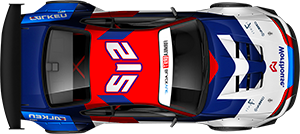
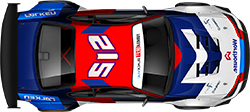
Fix image slide responsiveness

diff --git a/client/src/components/ShopSlider/ShopSlider.scss b/client/src/components/ShopSlider/ShopSlider.scss
@@ -8,7 +8,6 @@
   width: 40%;
   font-weight: 600;
   font-size: 2rem;
-  // right: 50%;
   margin: 0 auto;
   top: 80%;
   left: 30%;
@@ -27,12 +26,18 @@
     width: 100%;
   }
 }
+
+.carousel {
+  overflow: hidden;
+}
+
 .carousel-item {
-  img {
-    position: relative;
-    left: 10%;
+  position: fixed;
+  .CarSlide {
+    left: 30%;
   }
 }
+
 .carousel-control-prev,
 .carousel-control-next {
   border: 3px solid $main-color;
@@ -54,13 +59,13 @@
 }
 
 .carousel-caption {
-  position: fixed;
+  padding-top: 15rem;
+  position: relative;
   text-align: left;
-  height: 30rem;
+  width: 35%;
+  height: 100vh;
   color: #fff;
   left: 7%;
-  right: 50%;
-  top: 20%;
 
   h3 {
     color: #fff;
@@ -84,10 +89,7 @@
     font-size: 1.2rem;
     margin: 2rem 0rem 1rem 0rem;
   }
-  img {
-    margin-top: 5rem;
-    margin-left: -5rem;
-  }
+
   .progress {
     width: 70%;
     height: 1.2rem;
@@ -115,16 +117,7 @@
     color: $main-color;
   }
 }
-
-.CarSprite-container {
-  display: flex;
-  // justify-content: flex-start;
-  // align-content: center;
-  // border: 3px solid $main-color;
-  // padding: 2rem 15rem;
-
-  img {
-    padding: 0 0;
-    margin: 2rem 0rem 5rem -5rem;
-  }
+img.Car-Sprite {
+  position: relative;
+  margin: 2rem 0rem;
 }

diff --git a/client/src/components/ShopSlider/ShopSlider.js b/client/src/components/ShopSlider/ShopSlider.js
@@ -27,9 +27,11 @@ export default () => {
               <Carousel.Caption className="CarSlider-content">
                 <h5>Nissan</h5>
                 <h3>Silvia S15</h3>
-                <div className="CarSprite-container">
-                  <img src={car_sprite1} alt="car sprite" />
-                </div>
+                <img
+                  className="Car-Sprite"
+                  src={car_sprite1}
+                  alt="car sprite"
+                />
                 <h6>Max Speed</h6>
                 <ProgressBar
                   now={maxspeed}
@@ -48,7 +50,7 @@ export default () => {
                   <span className="coins">Coins</span>
                 </div>
               </Carousel.Caption>
-              <img src={silvia} alt="car sprite" />
+              <img className="CarSlide" src={silvia} alt="slide" />
             </Carousel.Item>
             {/* <Carousel.Item>
               <img src={carSlide1} alt="car sprite" />
